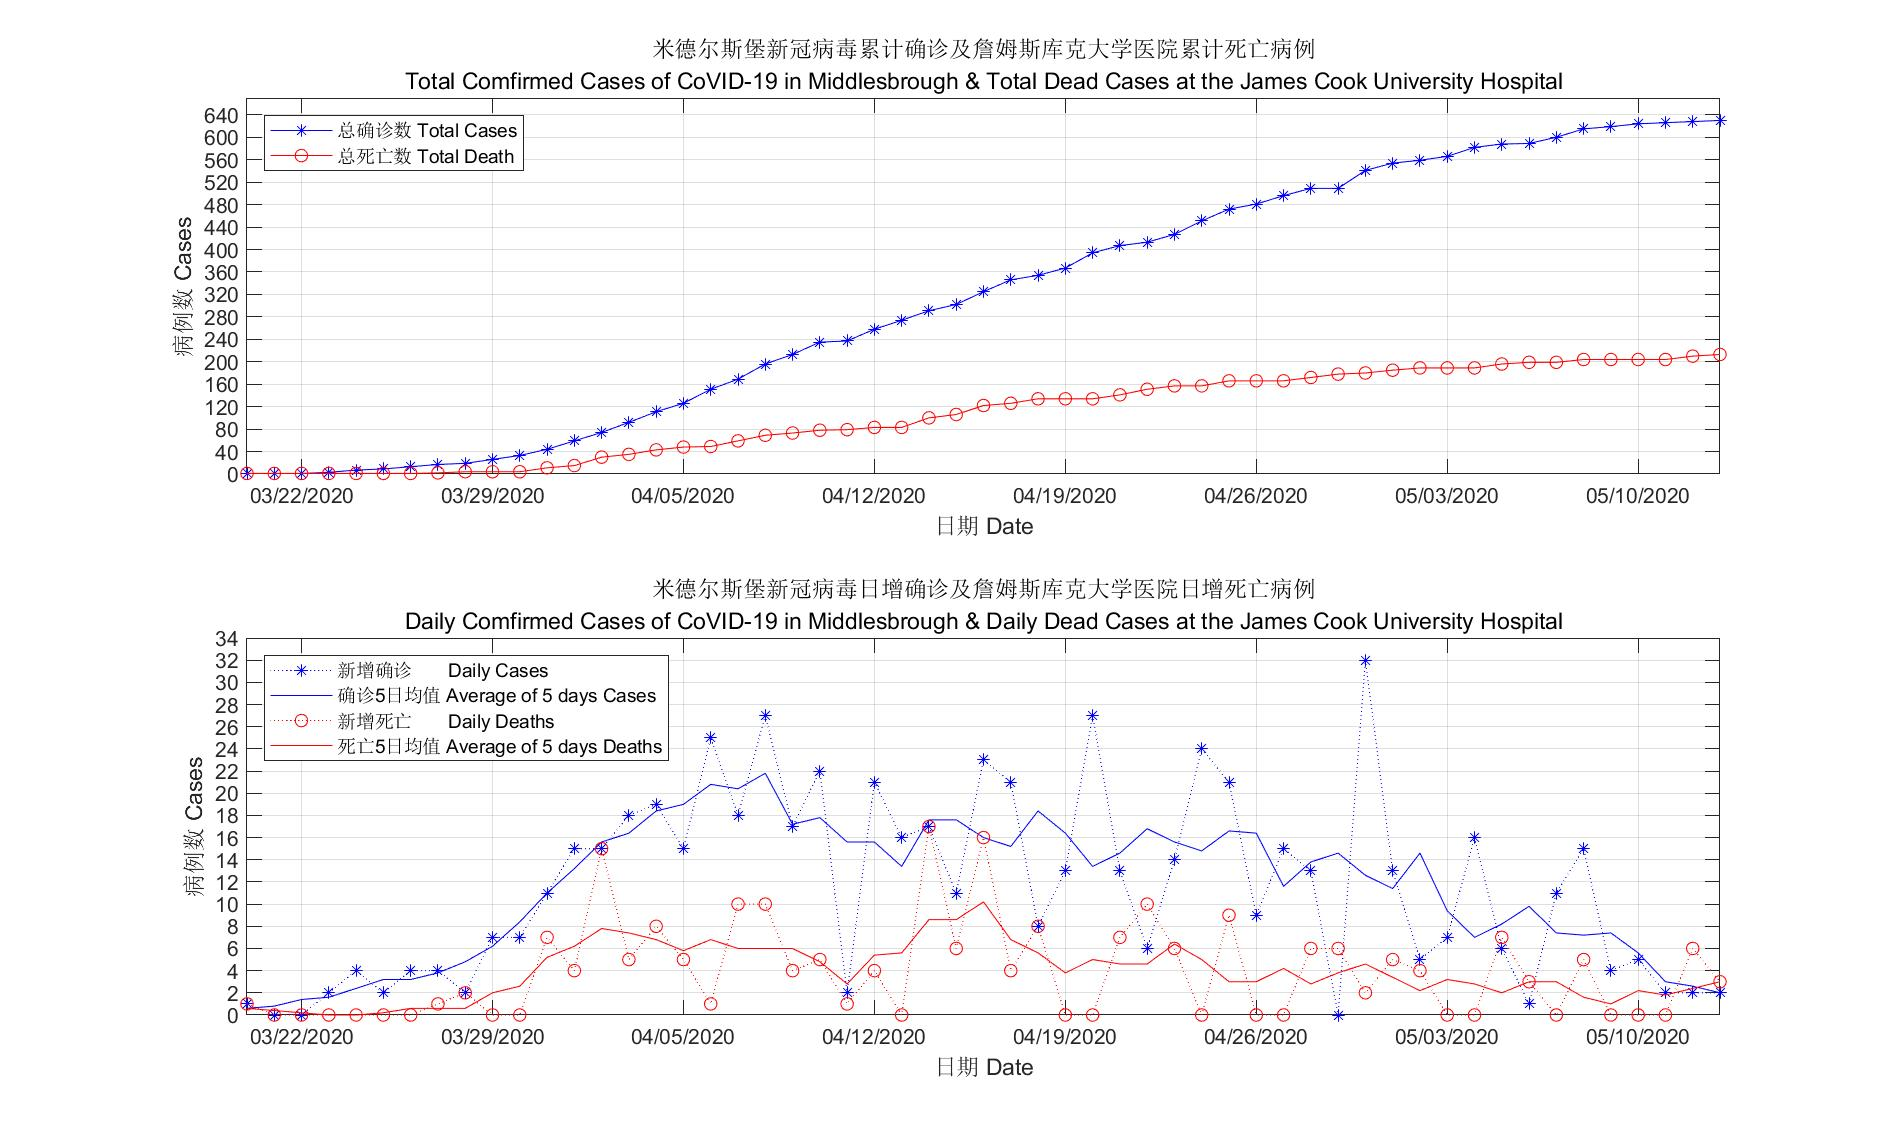
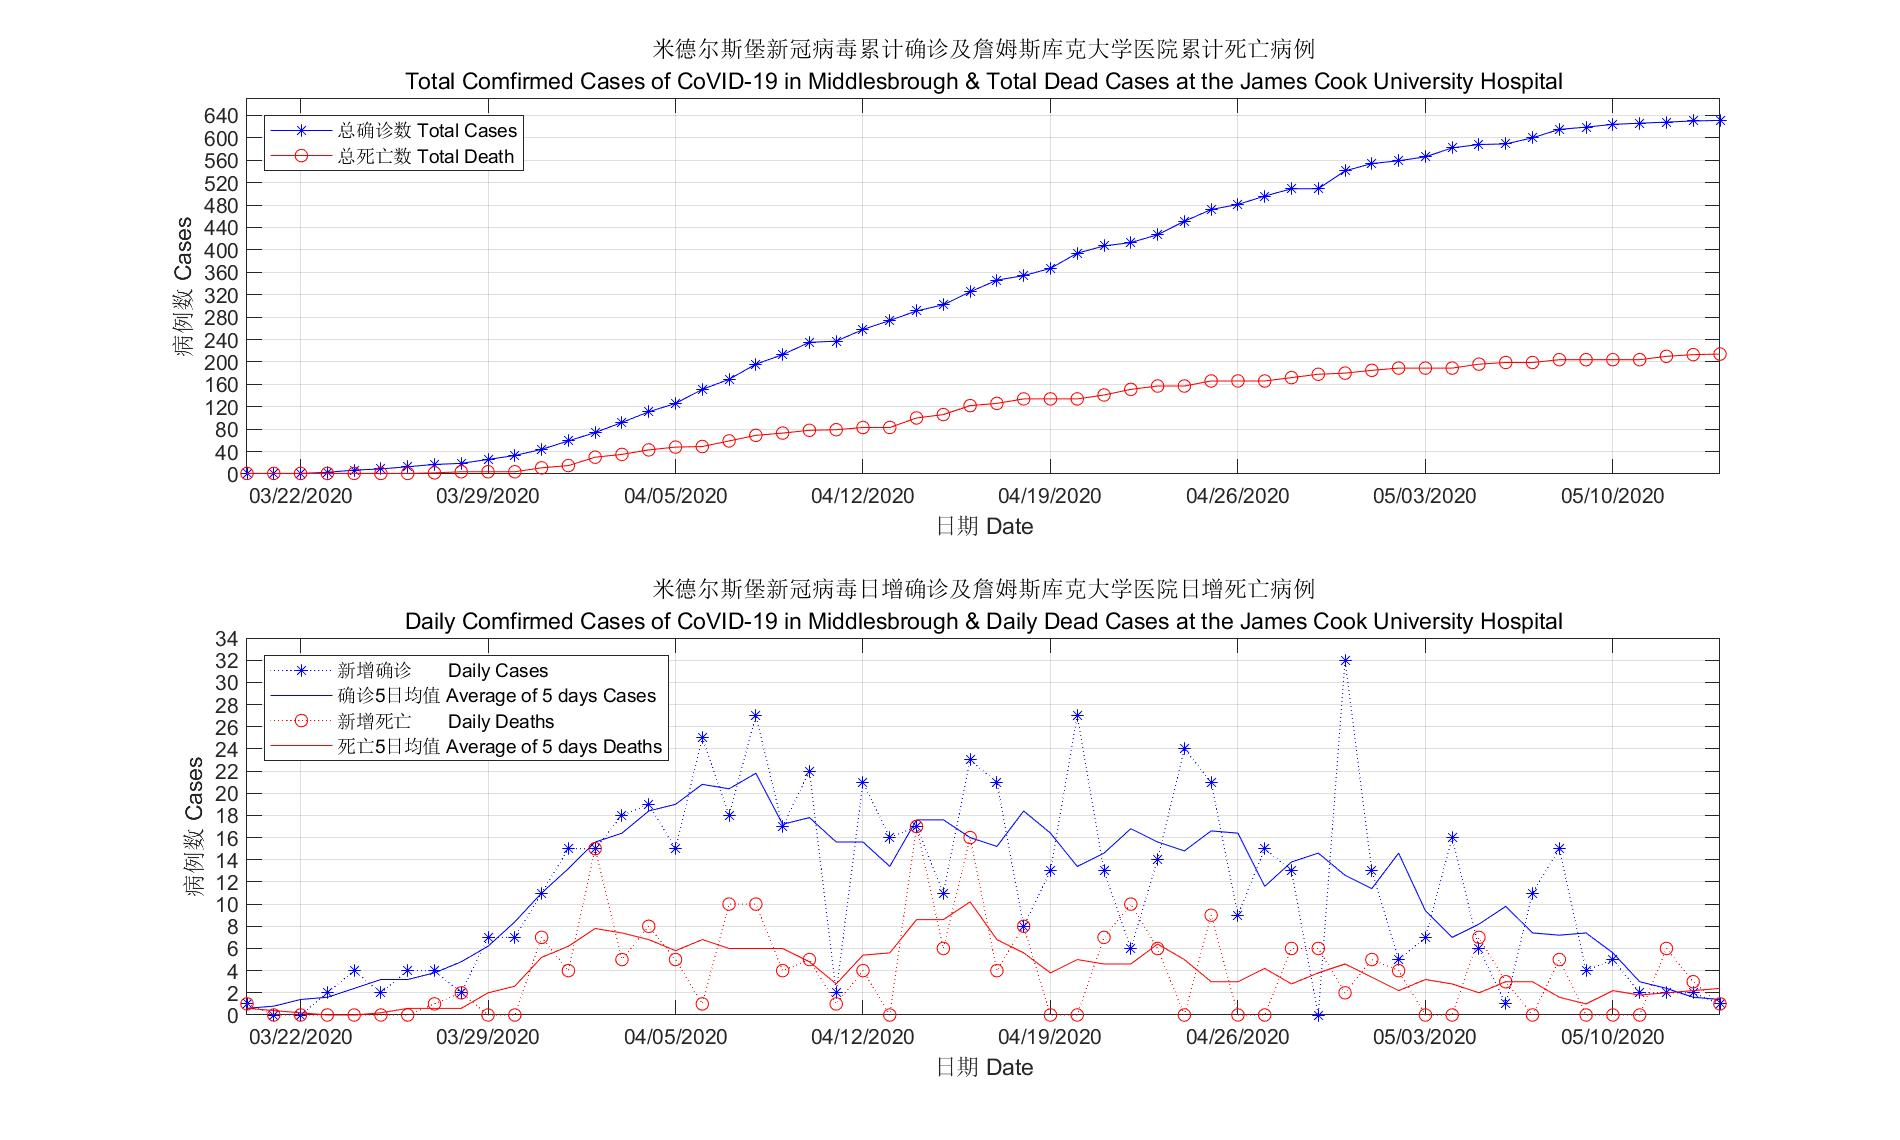
Update

diff --git a/Covid19_TS1.py b/Covid19_TS1.py
@@ -11,11 +11,11 @@ from matplotlib.ticker import MultipleLocator, FormatStrFormatter
 #cases data from the UK government
 cases = [1, 1, 1, 3, 7, 9, 13, 17, 19, 26, 33, 44, 59, 74, 92, 111, 126, 151, 169, 196, 213,\
     235, 237, 258, 274, 291, 302, 325, 346, 354, 367, 394, 407, 413, 427, 451, 472, 481, 496,\
-    509, 509, 541, 554, 559, 566, 582, 588, 589, 600, 615, 619, 624, 626, 628, 630]
+    509, 509, 541, 554, 559, 566, 582, 588, 589, 600, 615, 619, 624, 626, 628, 630, 631]
 #deaths data from NHS
 dcases = [1, 1, 1, 1, 1, 1, 1, 2, 4, 4, 4, 11, 15, 30, 35, 43, 48, 49, 59, 69, 73, 78, 79, 83,\
     83, 100, 106, 122, 126, 134, 134, 134, 141, 151, 157, 157, 166, 166, 166, 172, 178, 180,\
-    185, 189, 189, 189, 196, 199, 199, 204, 204, 204, 204, 210, 213]
+    185, 189, 189, 189, 196, 199, 199, 204, 204, 204, 204, 210, 213, 214]
 
 #Initial
 #Date config

diff --git a/covid19_TS1.m b/covid19_TS1.m
@@ -7,11 +7,12 @@
 %cases data from the UK government
 cases = [1 1 1 3 7 9 13 17 19 26 33 44 59 74 92 111 126 151 169 196 213 ...
     235 237 258 274 291 302 325 346 354 367 394 407 413 427 451 472 481 ...
-    496 509 509 541 554 559 566 582 588 589 600 615 619 624 626 628 630];
+    496 509 509 541 554 559 566 582 588 589 600 615 619 624 626 628 630 ...
+    631];
 %deaths data from NHS
 dcases = [1 1 1 1 1 1 1 2 4 4 4 11 15 30 35 43 48 49 59 69 73 78 79 83 ...
     83 100 106 122 126 134 134 134 141 151 157 157 166 166 166 172 178 ...
-    180 185 189 189 189 196 199 199 204 204 204 204 210 213];
+    180 185 189 189 189 196 199 199 204 204 204 204 210 213 214];
 
 %Initial
 %Date config
